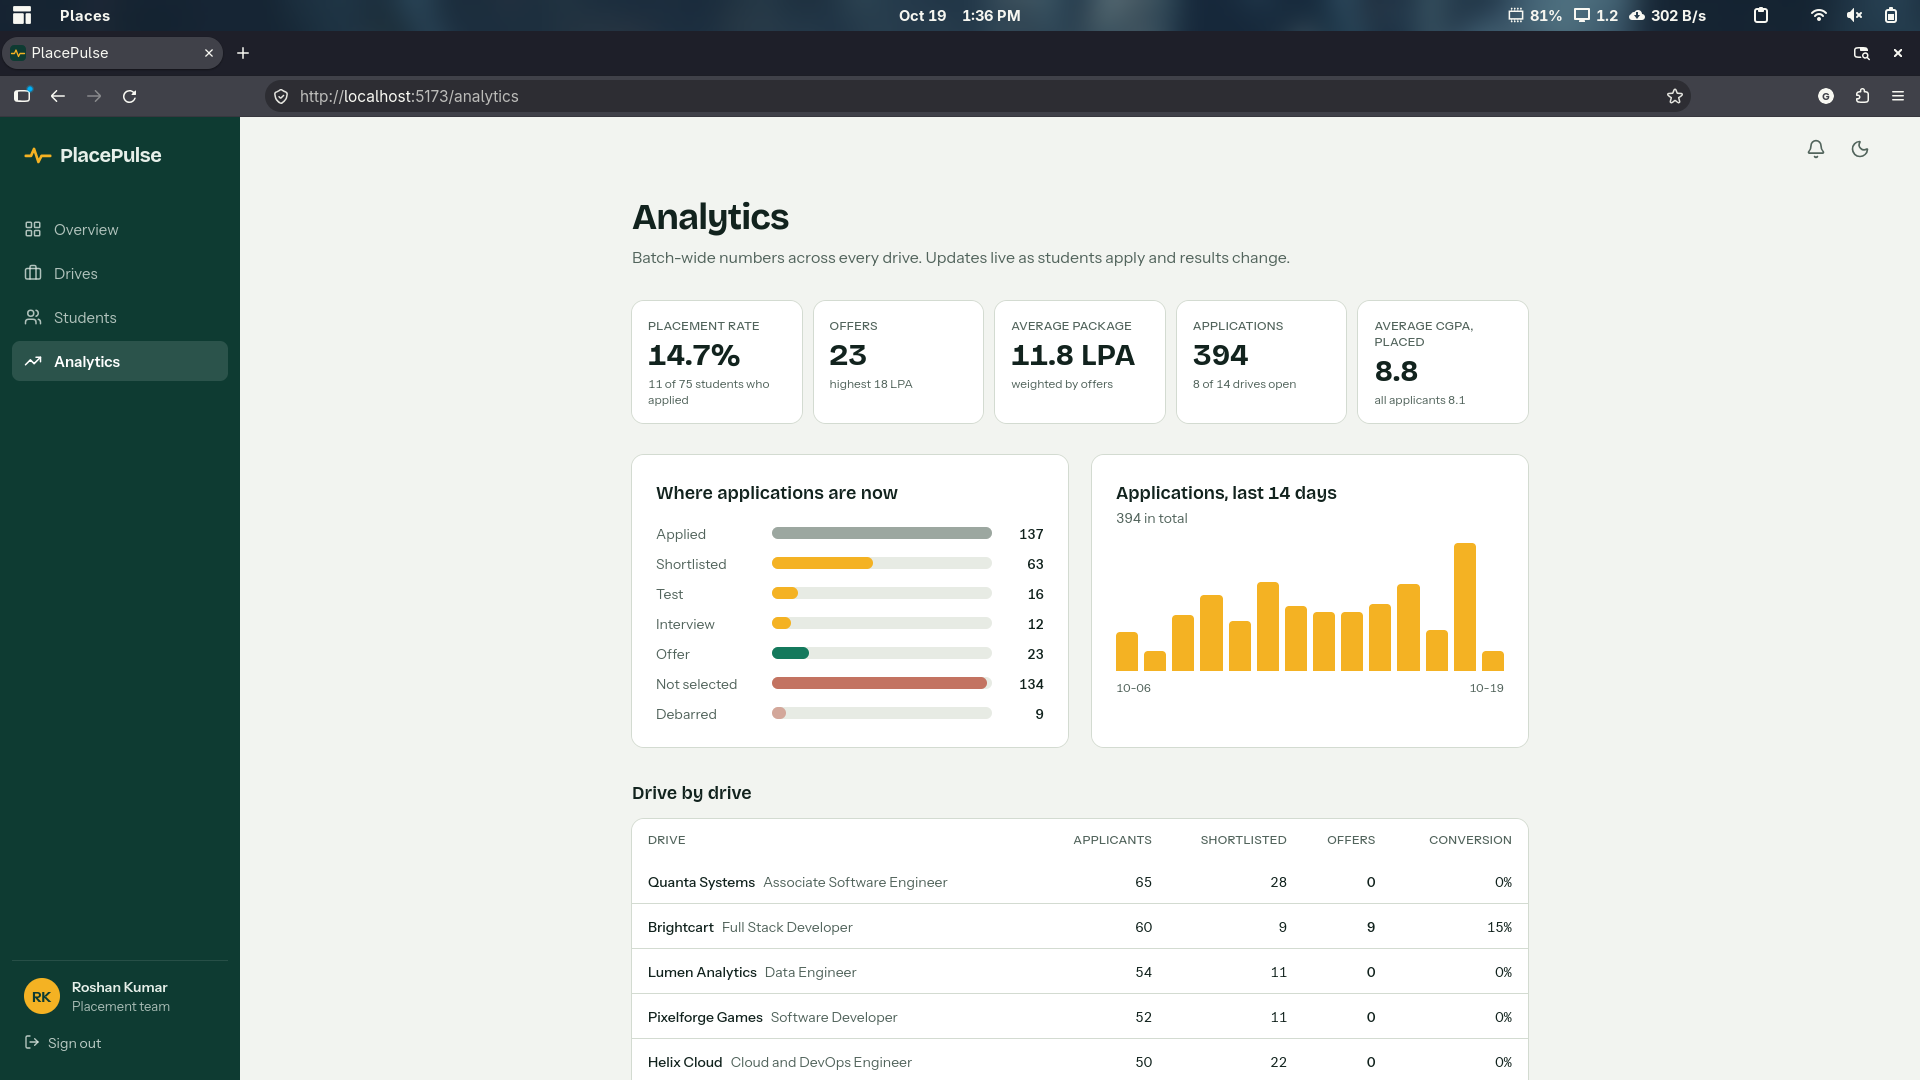
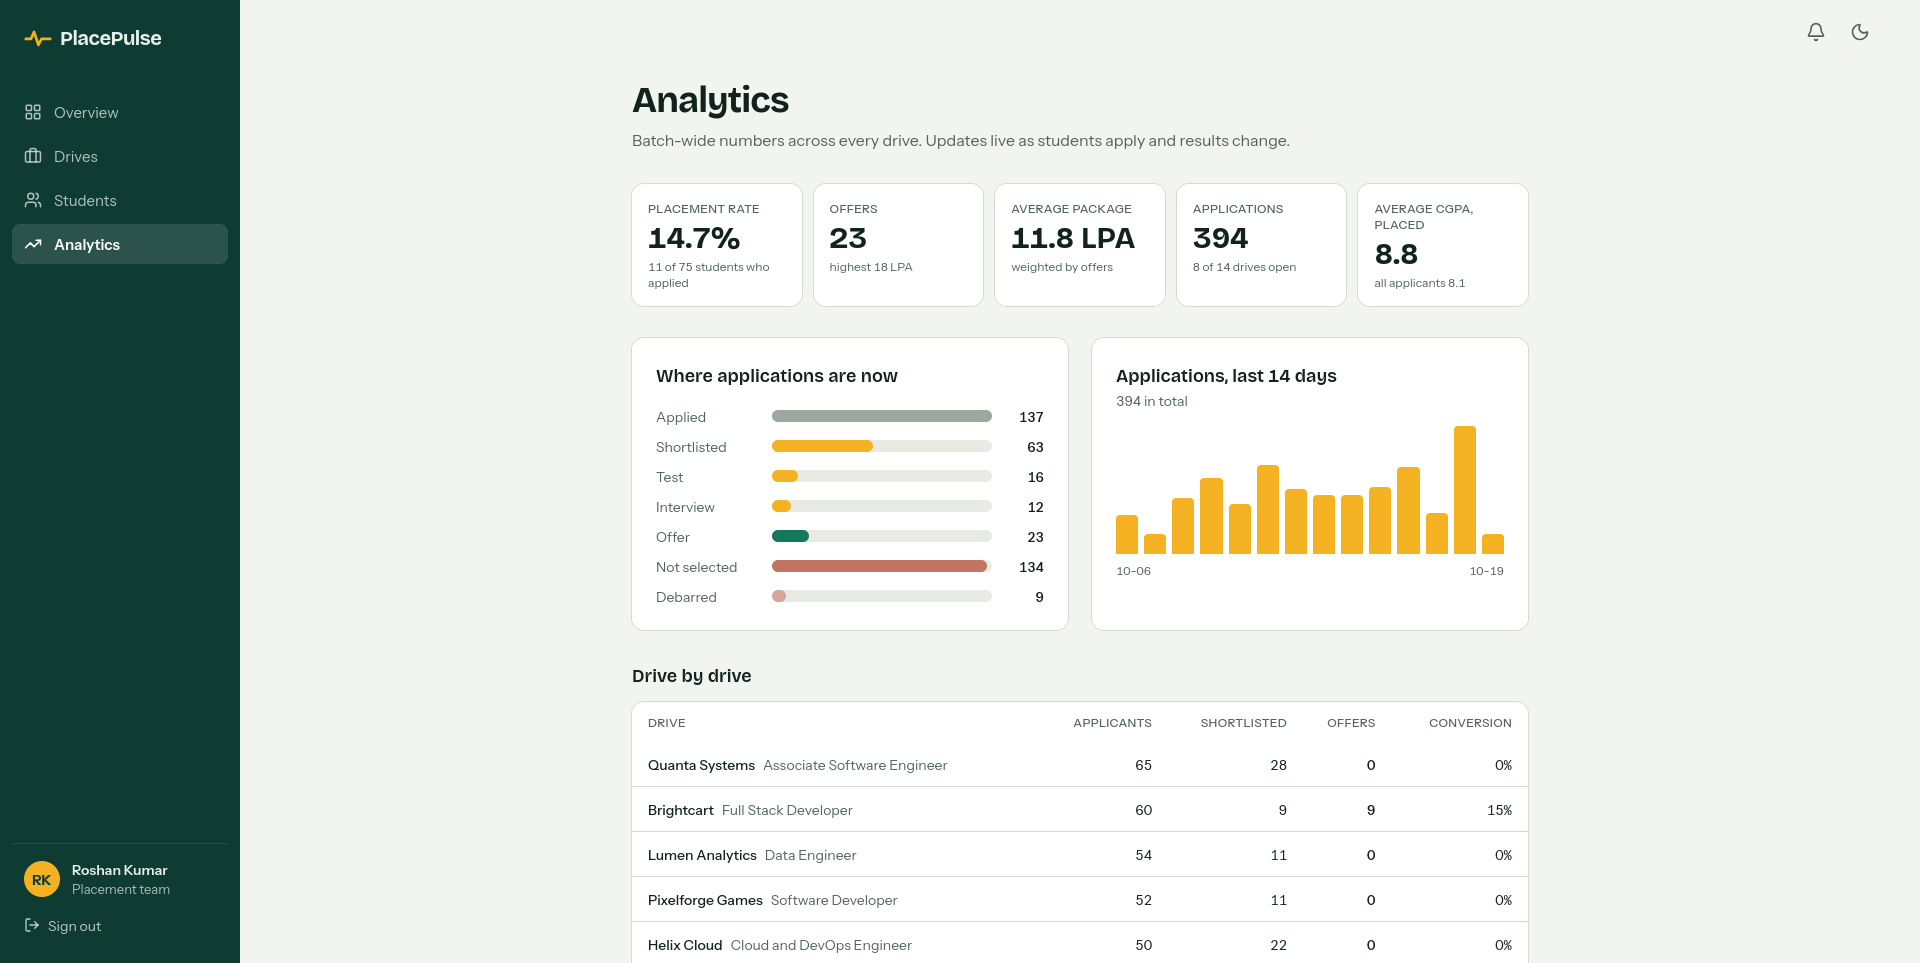
Explain empty rank results, crop screenshots, fix caption

diff --git a/frontend/src/pages/DriveApplicants.tsx b/frontend/src/pages/DriveApplicants.tsx
@@ -40,6 +40,7 @@ export default function DriveApplicants() {
   const [exporting, setExporting] = useState(false)
   const [fit, setFit] = useState<Map<string, RankedApplicant> | null>(null)
   const [ranking, setRanking] = useState(false)
+  const [rankNote, setRankNote] = useState('')
 
   async function rankByFit() {
     setRanking(true)
@@ -47,6 +48,12 @@ export default function DriveApplicants() {
     try {
       const rows = await api.rankApplicants(getToken(), id)
       setFit(new Map(rows.map((r) => [r.studentId, r])))
+      const withResume = rows.filter((r) => r.hasResume).length
+      setRankNote(
+        withResume === 0
+          ? `None of the ${rows.length} applicants has uploaded a resume yet, so there is nothing to rank.`
+          : `${withResume} of ${rows.length} applicants have a resume. The rest are listed last.`,
+      )
     } catch (err) {
       setActionError(err instanceof ApiError ? err.message : 'Something went wrong. Try again.')
     } finally {
@@ -200,6 +207,12 @@ export default function DriveApplicants() {
         <div className="mb-4">
           <FormError>{actionError}</FormError>
         </div>
+      )}
+
+      {rankNote && (
+        <p role="status" className="mb-4 rounded-lg bg-sunken px-4 py-3 text-sm text-ink-soft ring-1 ring-line">
+          {rankNote}
+        </p>
       )}
 
       {applicants.loading && !applicants.data ? (

diff --git a/README.md b/README.md
@@ -11,7 +11,7 @@ I built it because I am the placement representative (TPR) for a 75-student MCA 
 
 <p>
   <img src="docs/screenshots/drives.png" width="49%" alt="Drives list" />
-  <img src="docs/screenshots/applicants.png" width="49%" alt="Applicants with AI fit ranking" />
+  <img src="docs/screenshots/applicants.png" width="49%" alt="A drive's applicants with stage controls, bulk actions and CSV export" />
 </p>
 
 ## What it does
